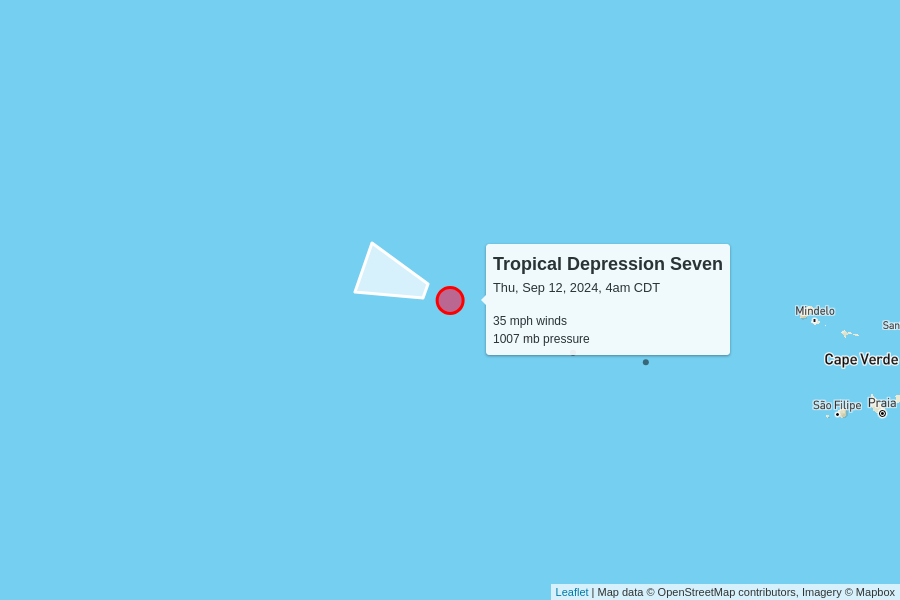
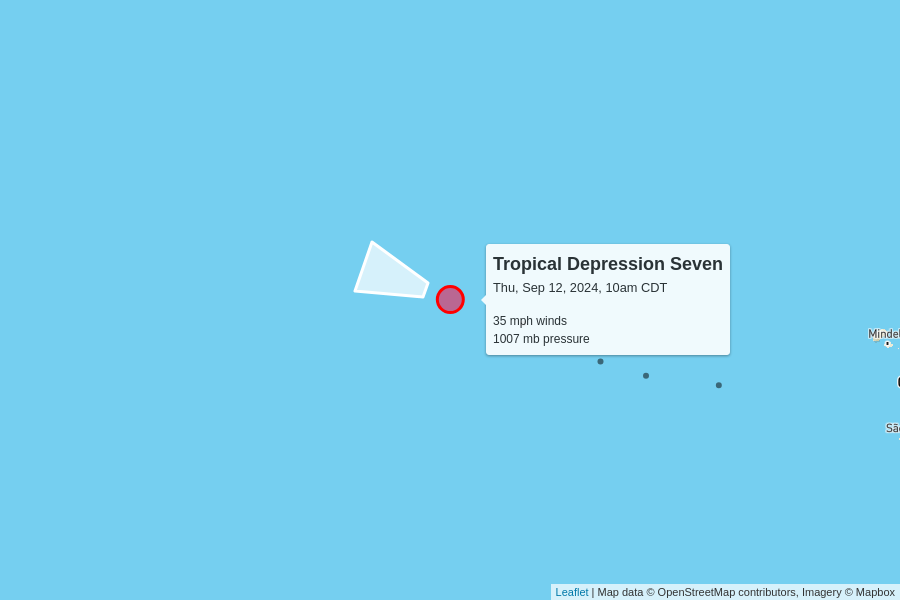
automatic update

diff --git a/docs/index.html b/docs/index.html
@@ -96,40 +96,16 @@
     </p>
 
     
-    <h2>2 active storms</h2>
-    <img src="active.png">
 
     <table>
       <tr>
-        <td colspan="6" class="storm category-0" >
-          <h2>
-            Tropical Depression Francine
-            <p class="updated">last updated <span data-time>2024-09-12T12:00:00.000Z</span></p>
+        <td colspan="6" class="storm " style="cursor:pointer;" onClick="toggle('AL062024')">
+          <h2>🏁 Francine
           </h2>
         </td>
       </tr>
       
-      <tr>
-        <th class="spacer"></th>
-        <th>wind speed</th>
-        <th>central pressure</th>
-        <th>movement</th>
-        <th>data (CSV)</th>
-        <th>National Hurricane Center</th>
-      </tr>
-      <tr>
-        <td class="spacer"></td>
-        <td>35 mph<br>-10 mph since last update</td>
-        <td>996 mb<br>+4 mb since last update</td>
-        <td>
-          12 mph to the north-northeast
-          <br/>
-          <span style="display: inline-block; font-size: 1.5em; transform: rotate(15deg);">↑</span>
-        </td>
-        <td><a href="https://raw.githubusercontent.com/mgwalker/atlantic-hurricanes/main/data/csv/AL062024.csv">AL062024.csv</a></td>
-        <td><a href="https://www.nhc.noaa.gov/archive/2024/FRANCINE.shtml?">NHC advisories</a></td>
-      </tr>
-      <tr id="storm_AL062024" >
+      <tr id="storm_AL062024" style="display:none;">
         <td class="spacer">
         <td colspan="5">
           <figure>
@@ -148,7 +124,7 @@
         <td colspan="6" class="storm category-0" >
           <h2>
             Tropical Depression Seven
-            <p class="updated">last updated <span data-time>2024-09-12T09:00:00.000Z</span></p>
+            <p class="updated">last updated <span data-time>2024-09-12T15:00:00.000Z</span></p>
           </h2>
         </td>
       </tr>
